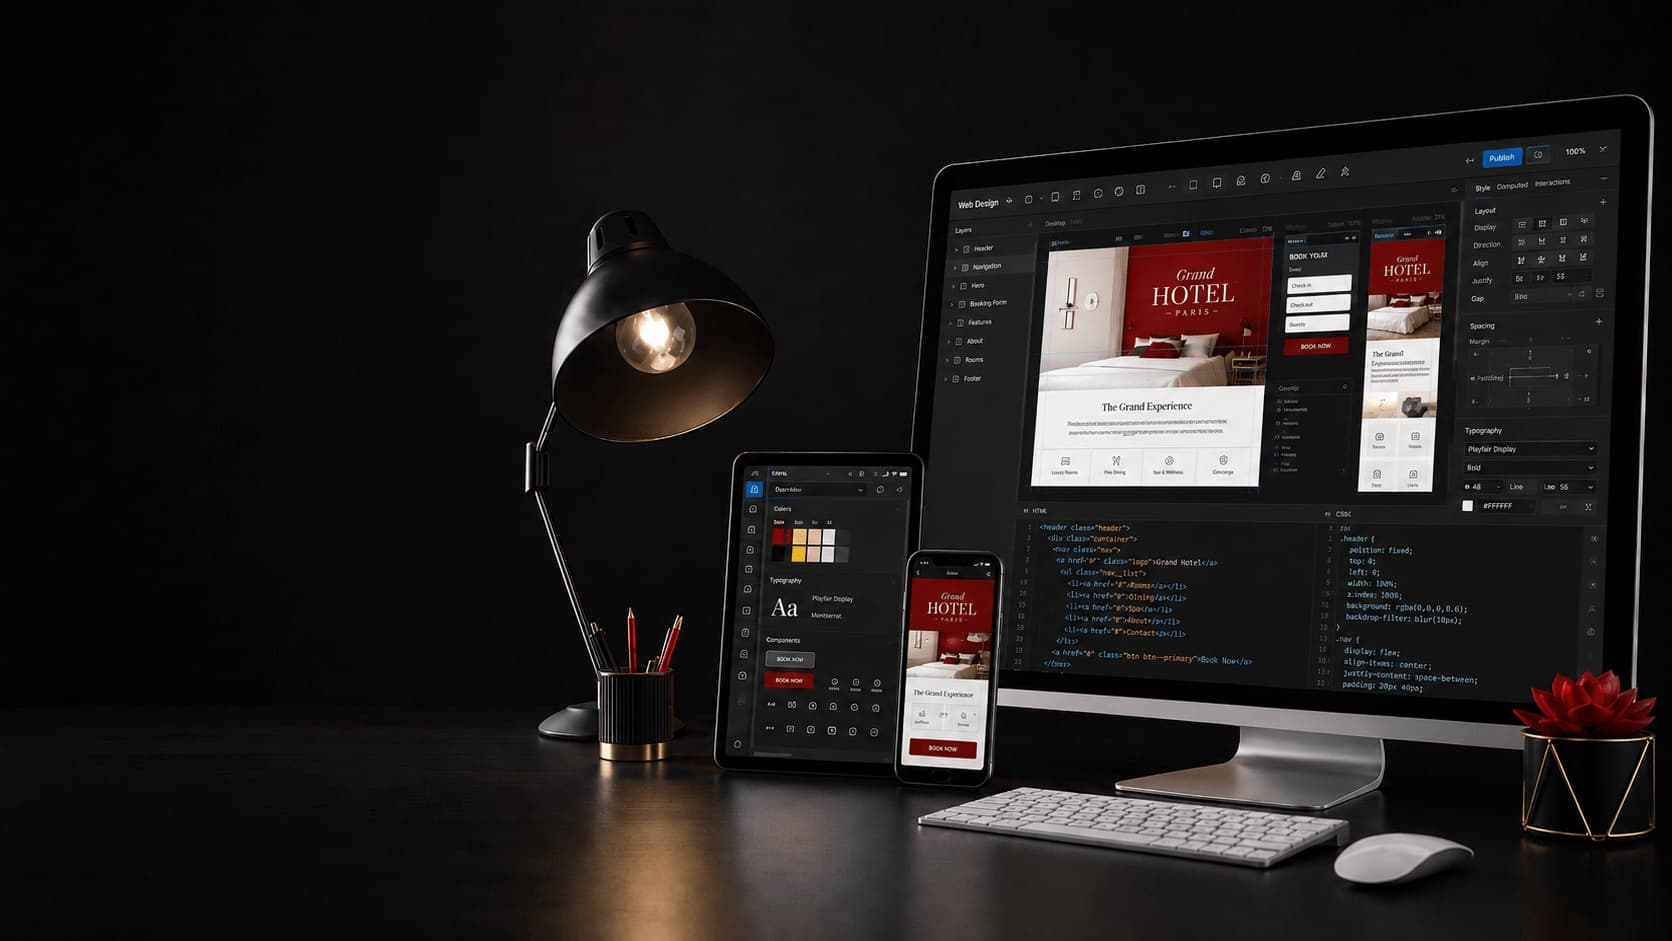
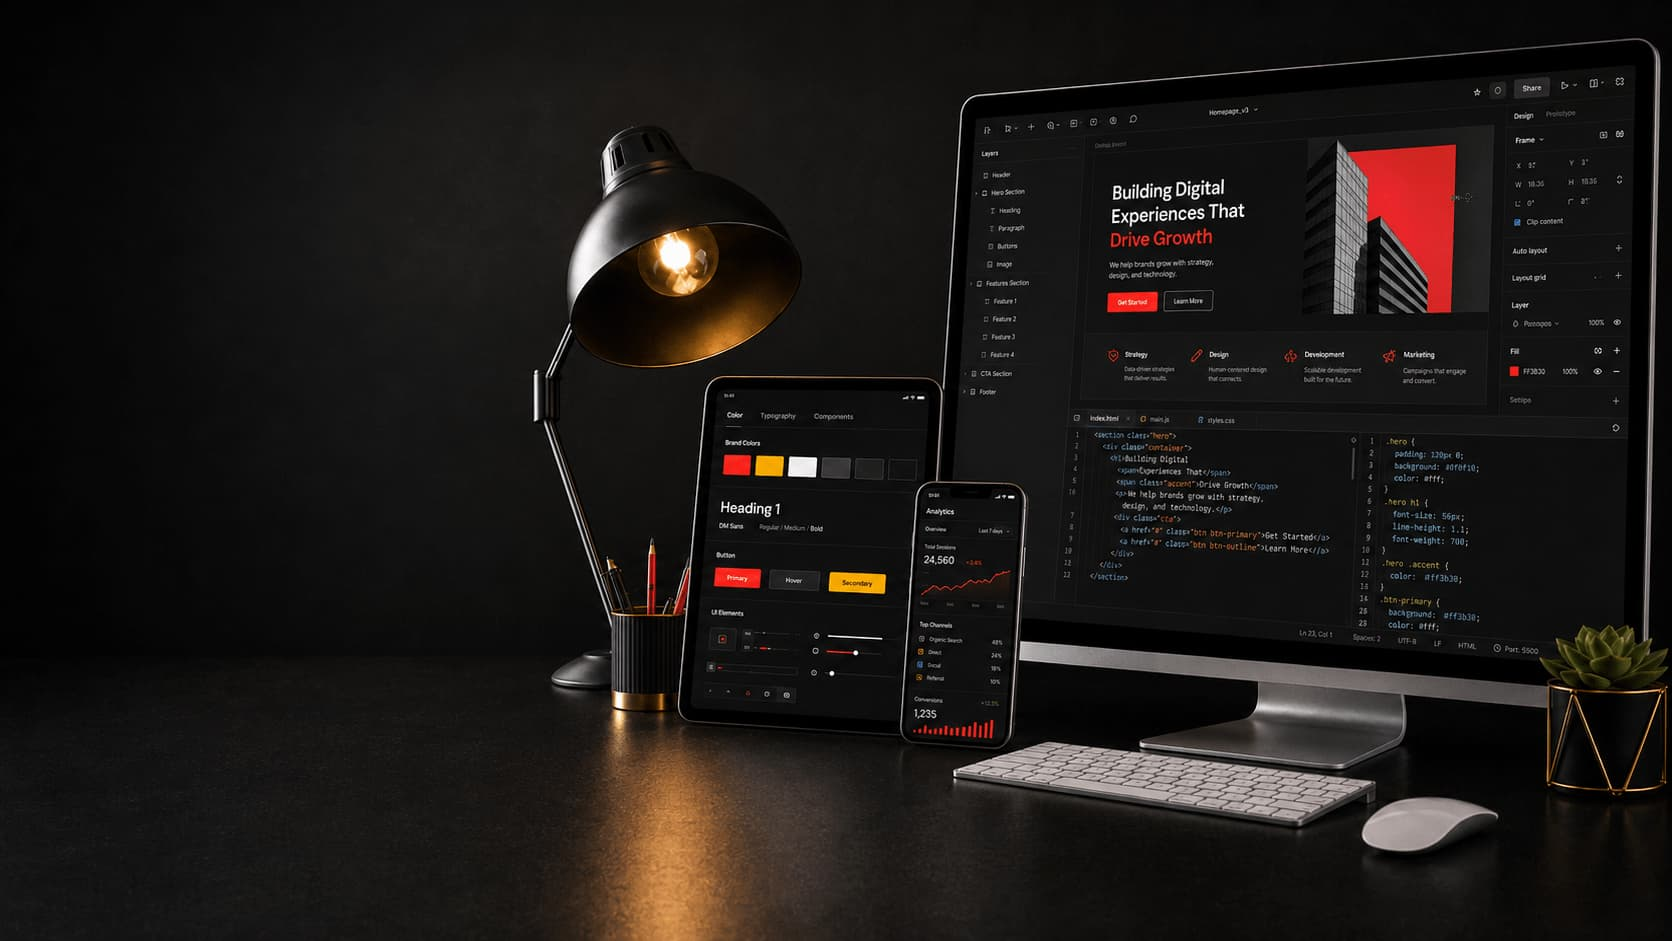
+

Changed region(s): [[0.311, 0.0308, 1.0, 1.0], [0.7153, 0.0925, 0.7464, 0.1233], [0.6531, 0.1233, 0.6842, 0.1541]]

diff --git a/css/services.css b/css/services.css
@@ -1210,3 +1210,260 @@
 .deliverables-list__item:hover span {
     color: #171915 !important;
 }
+
+/* =========================
+   SERVICE PAGES — MOBILE CENTERED H1 / H2
+   all service pages
+========================= */
+
+@media (max-width: 760px) {
+
+    /* HERO H1 */
+    .page-hero__content,
+    .service-hero .page-hero__content {
+        width: 100% !important;
+        max-width: 100% !important;
+        display: grid !important;
+        justify-items: center !important;
+        text-align: center !important;
+    }
+
+    .page-hero__content>div,
+    .service-hero .page-hero__content>div {
+        width: 100% !important;
+        max-width: 100% !important;
+        display: grid !important;
+        justify-items: center !important;
+        text-align: center !important;
+    }
+
+    .page-hero__title,
+    .service-hero .page-hero__title,
+    .page-hero h1,
+    .service-hero h1 {
+        width: 100% !important;
+        max-width: 100% !important;
+        margin-inline: auto !important;
+        text-align: center !important;
+        text-wrap: balance !important;
+        line-height: 1.02 !important;
+        letter-spacing: -0.065em !important;
+    }
+
+    .page-hero__title span,
+    .service-hero .page-hero__title span {
+        display: inline !important;
+    }
+
+    .page-hero__text,
+    .service-hero .page-hero__text {
+        width: 100% !important;
+        max-width: 100% !important;
+        margin-inline: auto !important;
+        text-align: center !important;
+        text-wrap: pretty !important;
+    }
+
+    .page-hero__meta {
+        width: 100% !important;
+        justify-content: center !important;
+    }
+
+    .service-hero .section-kicker {
+        margin-inline: auto !important;
+    }
+
+    /* ALL SERVICE PAGE H2 */
+    .section-title,
+    .section-head .section-title,
+    .service-overview .section-title,
+    .service-matters .section-title,
+    .service-method .section-title,
+    .service-deliverables .section-title,
+    .service-promise .section-title,
+    .service-faq .section-title {
+        width: 100% !important;
+        max-width: 100% !important;
+        margin-inline: auto !important;
+        text-align: center !important;
+        text-wrap: balance !important;
+        line-height: 1.04 !important;
+        letter-spacing: -0.06em !important;
+    }
+
+    /* чтобы блоки с h2 тоже центрировались */
+    .section-head,
+    .section-head__content,
+    .service-overview__content,
+    .service-matters__grid>div,
+    .service-deliverables__panel,
+    .service-faq__content,
+    .service-promise__box>div {
+        width: 100% !important;
+        max-width: 100% !important;
+        text-align: center !important;
+        justify-items: center !important;
+    }
+
+    .section-text,
+    .section-head__aside,
+    .service-overview__extra,
+    .service-matters__text,
+    .service-faq__content {
+        max-width: 100% !important;
+        margin-inline: auto !important;
+        text-align: center !important;
+        text-wrap: pretty !important;
+    }
+
+    .section-kicker {
+        margin-inline: auto !important;
+    }
+}
+
+/* very small phones */
+@media (max-width: 480px) {
+
+    .page-hero__title,
+    .service-hero .page-hero__title {
+        font-size: clamp(2.15rem, 11vw, 3.25rem) !important;
+        line-height: 1.03 !important;
+    }
+
+    .section-title {
+        font-size: clamp(1.95rem, 9.5vw, 2.95rem) !important;
+        line-height: 1.05 !important;
+    }
+}
+
+/* =========================
+   SERVICE HERO — TABLET H1 CENTERED
+   only service pages / tablet only
+========================= */
+
+@media (min-width: 761px) and (max-width: 1180px) {
+    body[data-page="service"] .service-hero .page-hero__content {
+        width: 100% !important;
+        max-width: 100% !important;
+        display: grid !important;
+        justify-items: center !important;
+        text-align: center !important;
+    }
+
+    body[data-page="service"] .service-hero .page-hero__content>div {
+        width: 100% !important;
+        max-width: 100% !important;
+        display: grid !important;
+        justify-items: center !important;
+        text-align: center !important;
+    }
+
+    body[data-page="service"] .service-hero .page-hero__title,
+    body[data-page="service"] .service-hero h1 {
+        width: 100% !important;
+        max-width: 100% !important;
+        margin-inline: auto !important;
+        text-align: center !important;
+        text-wrap: balance !important;
+        line-height: 1.02 !important;
+        letter-spacing: -0.065em !important;
+    }
+
+    body[data-page="service"] .service-hero .page-hero__title span {
+        display: inline !important;
+    }
+
+    body[data-page="service"] .service-hero .section-kicker {
+        margin-inline: auto !important;
+    }
+
+    body[data-page="service"] .service-hero .page-hero__meta {
+        width: 100% !important;
+        justify-content: center !important;
+    }
+}
+
+/* =========================
+   IMPROVEMENT CARDS — SMALLER ICONS ON TABLET / MOBILE
+   no background
+========================= */
+
+@media (max-width: 1180px) {
+    .improvement-card>svg {
+        width: 28px !important;
+        height: 28px !important;
+        background: transparent !important;
+    }
+
+    .improvement-card h3 {
+        padding-right: 48px !important;
+    }
+}
+
+@media (max-width: 760px) {
+    .improvement-card>svg {
+        width: 24px !important;
+        height: 24px !important;
+        background: transparent !important;
+    }
+
+    .improvement-card h3 {
+        padding-right: 42px !important;
+    }
+}
+
+@media (max-width: 480px) {
+    .improvement-card>svg {
+        width: 22px !important;
+        height: 22px !important;
+        background: transparent !important;
+    }
+
+    .improvement-card h3 {
+        padding-right: 38px !important;
+    }
+}
+/* =========================
+   METHOD LIST — MOBILE ICON TOP RIGHT
+========================= */
+
+@media (max-width: 760px) {
+    .method-list__item {
+        position: relative !important;
+        grid-template-columns: 1fr !important;
+        gap: 10px !important;
+        padding: 22px 20px !important;
+    }
+
+    .method-list__item>svg {
+        position: absolute !important;
+        top: 22px !important;
+        right: 20px !important;
+        z-index: 2 !important;
+        margin: 0 !important;
+    }
+
+    .method-list__item h3 {
+        padding-right: 52px !important;
+        margin-bottom: 8px !important;
+    }
+
+    .method-list__item p {
+        padding-right: 0 !important;
+    }
+}
+
+@media (max-width: 520px) {
+    .method-list__item {
+        padding: 20px 18px !important;
+    }
+
+    .method-list__item>svg {
+        top: 20px !important;
+        right: 18px !important;
+    }
+
+    .method-list__item h3 {
+        padding-right: 46px !important;
+    }
+}
